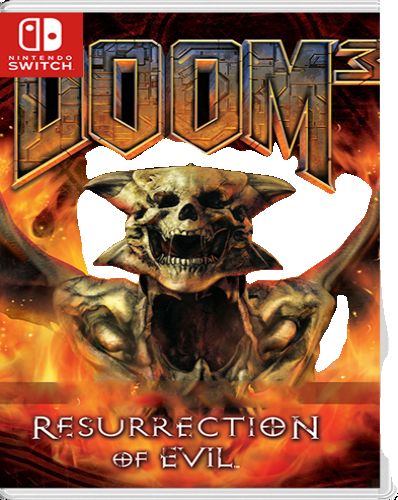
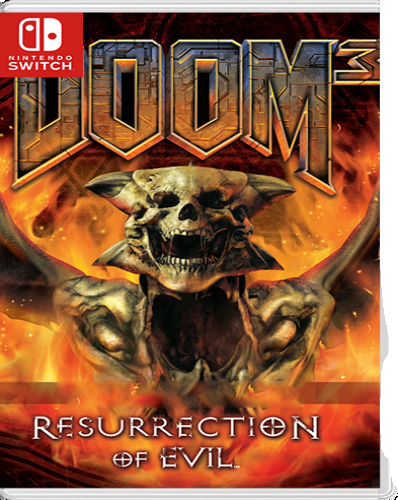
Doom: спокойнее музыка с 6:46, выше качество рендера, коробки Doom 64/3/Eternal без дыр
Claude-Session: https://claude.ai/code/session_01RHFrx85Hg5RpkQEmnVQQfw

Changed region(s): [[0.1809, 0.27, 0.9347, 0.57], [0.7839, 0.57, 0.8744, 0.75]]

diff --git a/remotion_doom/remotion.config.ts b/remotion_doom/remotion.config.ts
@@ -1,7 +1,10 @@
 import { Config } from '@remotion/cli/config';
 
 Config.setVideoImageFormat('jpeg');
-Config.setCrf(20);
+Config.setCrf(16);
+// качество промежуточных кадров: по умолчанию JPEG 80 — отсюда «зерно» на тексте и размытых фонах
+Config.setJpegQuality(100);
+Config.setX264Preset('slow');
 // сколько ждать загрузки кадра клипа или картинки (по умолчанию 30 с)
 Config.setDelayRenderTimeoutInMilliseconds(120000);
 // рендер страниц на видеокарте (ANGLE): быстрее на компьютере с GPU
